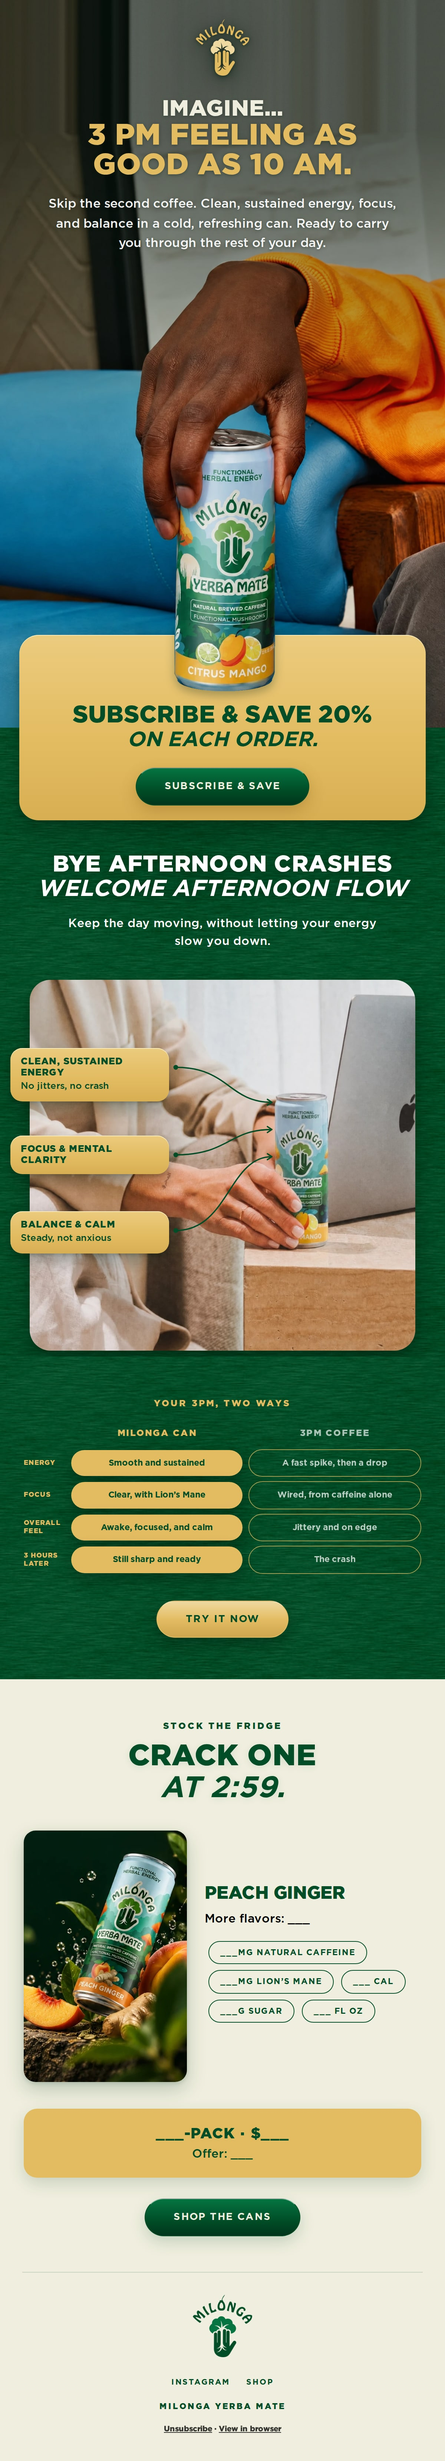
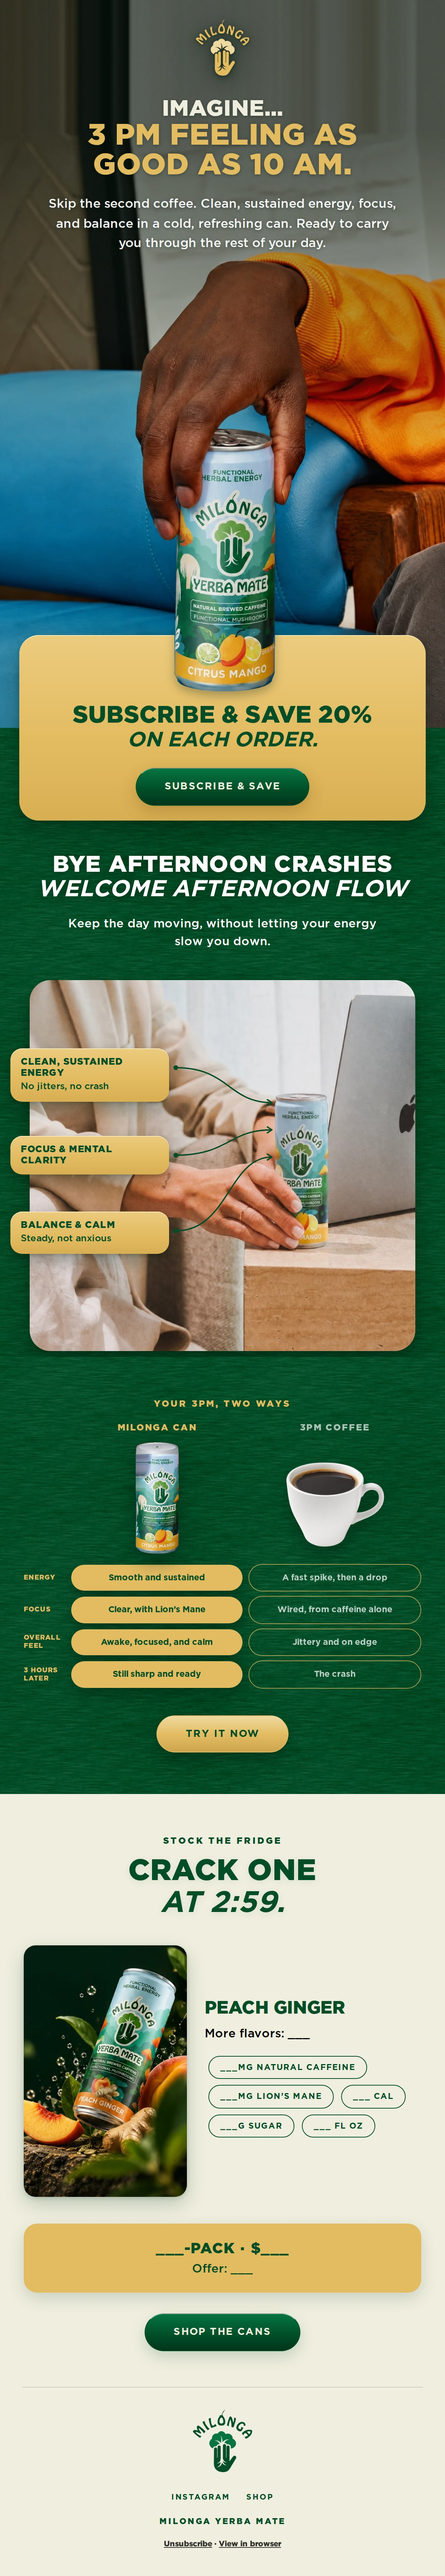
email: can and coffee cup cutouts under the comparison's column heads
CompareRows gains artBelow, so the pictures sit under the names and
directly on top of their columns. The can is cut from the Citrus Mango
hand shot by scripts/cut-can-citrus-mango.cjs: the strips under the
thumb and fingers are rebuilt from the label beside them and a clean
lid is drawn over the fingers on top.

Claude-Session: https://claude.ai/code/session_01NhEtXPnfeCJfN73SqBkUZ5

diff --git a/email-ds/src/components/CompareRows.tsx b/email-ds/src/components/CompareRows.tsx
@@ -24,6 +24,12 @@ export interface CompareRowsProps {
   /** Optional art above each column head — a product cutout and an icon. */
   ourArt?: React.ReactNode;
   theirArt?: React.ReactNode;
+  /**
+   * Put the art UNDER the column names instead of above them, so the names
+   * read as headings and the pictures sit directly on top of the rows they
+   * stand for.
+   */
+  artBelow?: boolean;
 }
 
 /**
@@ -44,6 +50,7 @@ export function CompareRows({
   theirName,
   ourArt,
   theirArt,
+  artBelow = false,
 }: CompareRowsProps) {
   const t = onBg[bg];
   // Narrow label gutter and a capped width: the table reads as one centred
@@ -72,16 +79,18 @@ export function CompareRows({
 
   return (
     <div style={{ maxWidth: MAXW, margin: '0 auto' }}>
-      {/* Column heads — art, then the name. */}
+      {/* Column heads — art, then the name (or the name, then the art). */}
       <div style={{ display: 'flex', alignItems: 'flex-end', gap: 8 }}>
         <div style={{ flex: `0 0 ${LABEL}px`, width: LABEL }} />
         <div style={{ flex: 1, textAlign: 'center' }}>
-          {ourArt}
-          <div style={{ ...head, color: t.accent, marginTop: 8 }}>{ourName}</div>
+          {artBelow ? null : ourArt}
+          <div style={{ ...head, color: t.accent, marginTop: artBelow ? 0 : 8, marginBottom: artBelow ? 12 : 0 }}>{ourName}</div>
+          {artBelow ? ourArt : null}
         </div>
         <div style={{ flex: 1, textAlign: 'center' }}>
-          {theirArt}
-          <div style={{ ...head, color: t.body, opacity: 0.66, marginTop: 8 }}>{theirName}</div>
+          {artBelow ? null : theirArt}
+          <div style={{ ...head, color: t.body, opacity: 0.66, marginTop: artBelow ? 0 : 8, marginBottom: artBelow ? 12 : 0 }}>{theirName}</div>
+          {artBelow ? theirArt : null}
         </div>
       </div>
 

diff --git a/email-ds/emails/three-pm-cans.jsx b/email-ds/emails/three-pm-cans.jsx
@@ -236,7 +236,17 @@ function ThreePmCans() {
         h('div', { style: { fontFamily: FONT, fontWeight: 900, fontSize: 12,
           letterSpacing: '0.2em', textTransform: 'uppercase', color: GOLD,
           textAlign: 'center', marginBottom: 18 } }, 'Your 3PM, two ways'),
-        h(M.CompareRows, { bg: 'forest', ourName: 'Milonga can', theirName: '3PM coffee',
+        // The two drinks as cutouts under their names, both sitting on one
+        // baseline so the can and the cup read as a pair at the same scale.
+        h(M.CompareRows, { bg: 'forest', ourName: 'Milonga can', theirName: '3PM coffee', artBelow: true,
+          ourArt: h('img', { src: '../public/product/can-citrus-mango-cutout.png',
+            alt: 'A can of Milonga Yerba Mate, Citrus Mango',
+            style: { height: 150, width: 'auto', display: 'block', margin: '0 auto',
+              filter: 'drop-shadow(0 10px 12px rgba(0,26,13,0.45))' } }),
+          theirArt: h('div', { style: { height: 150, display: 'flex', alignItems: 'flex-end', justifyContent: 'center' } },
+            h('img', { src: '../public/product/coffee-cup.png', alt: 'A cup of black coffee',
+              style: { width: 132, height: 'auto', display: 'block',
+                filter: 'drop-shadow(0 10px 12px rgba(0,26,13,0.45))' } })),
           // Four rows, in the order the afternoon happens: how the energy
           // feels, where the focus comes from, the overall sensation, and
           // what is left three hours on. Coffee's side is the positioning
